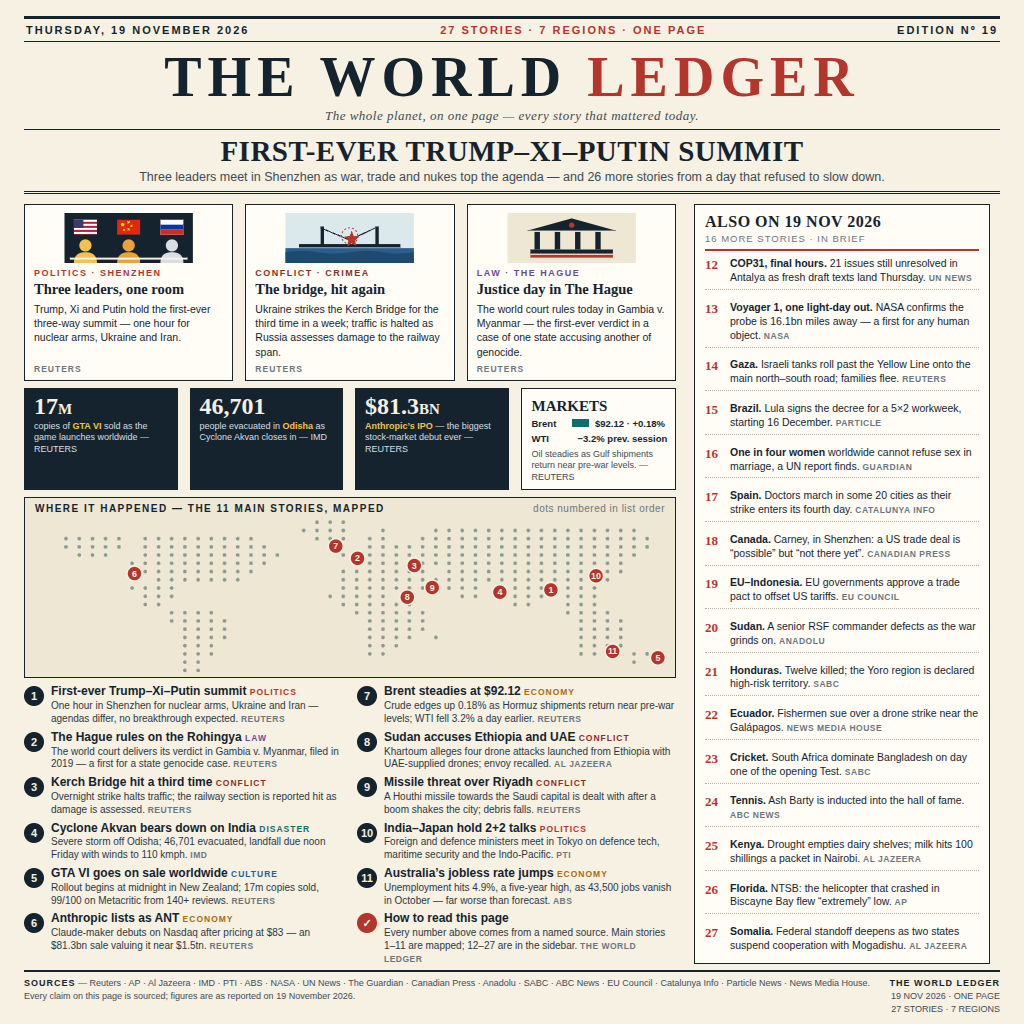
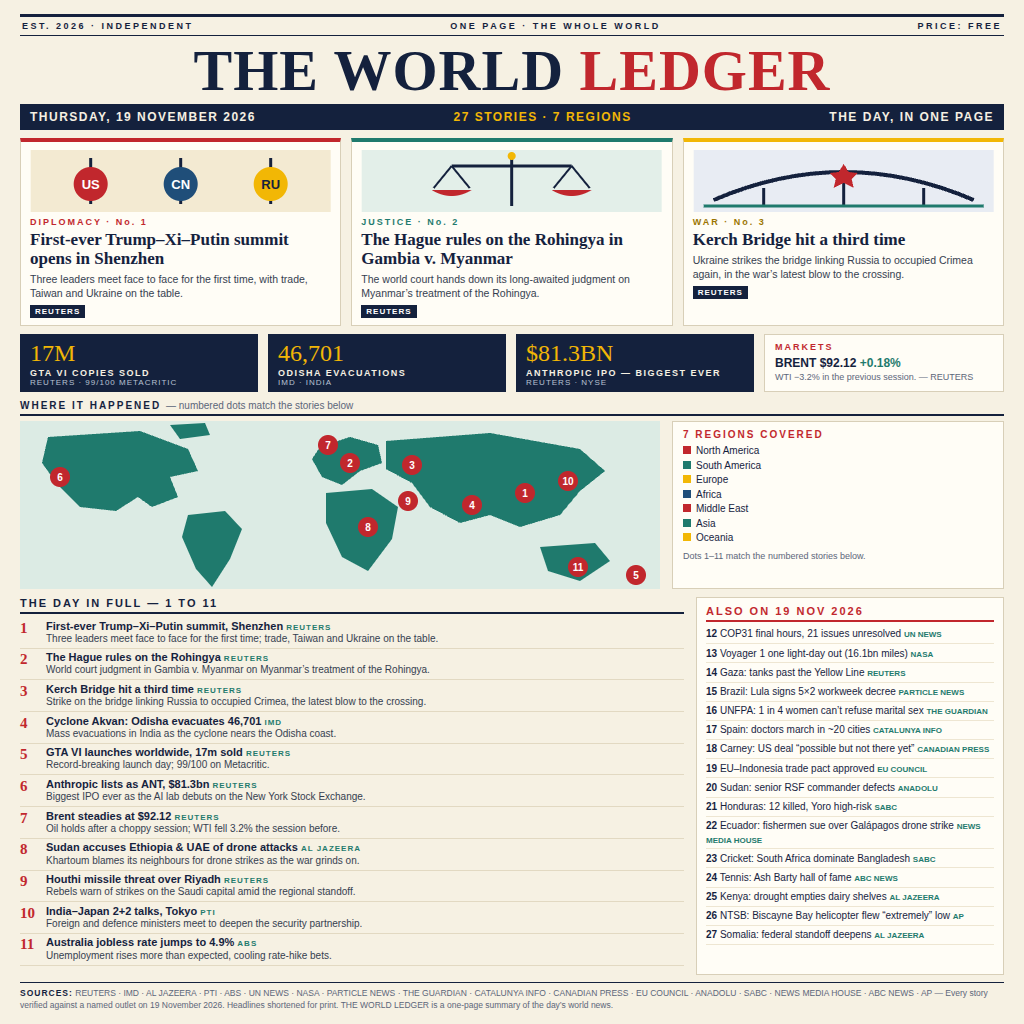
World news 19 Nov 2026 — authorship fix + map dots

diff --git a/main.ts b/main.ts
@@ -1,16 +1,14 @@
-// news-image-20261119 — entry program (Node 22, no dependencies, no network).
-// Copies the pre-rendered front page (entry.png, in this repo) to
-// /output/entry.png. Deterministic by construction: a plain file copy,
-// no timestamps, no randomness, no network.
-import { copyFileSync, mkdirSync } from 'node:fs';
-import { dirname, join } from 'node:path';
-import { fileURLToPath } from 'node:url';
+// news-image-20261119 — deterministic entry program (Node 22, no dependencies, no network).
+// Copies the pre-rendered poster (entry.png, 1024x1024) to /output/entry.png.
+import { copyFileSync, mkdirSync } from "node:fs";
+import { dirname, join } from "node:path";
+import { fileURLToPath } from "node:url";
 
 const repoRoot = dirname(fileURLToPath(import.meta.url));
-const source = join(repoRoot, 'entry.png');
-const outDir = '/output';
-const dest = join(outDir, 'entry.png');
+const source = join(repoRoot, "entry.png");
+const outputDir = "/output";
+const target = join(outputDir, "entry.png");
 
-mkdirSync(outDir, { recursive: true });
-copyFileSync(source, dest);
-console.log(`wrote ${dest}`);
+mkdirSync(outputDir, { recursive: true });
+copyFileSync(source, target);
+console.log(`Wrote ${target}`);

diff --git a/README.md b/README.md
@@ -2,7 +2,7 @@
 [![make.fun · news-image-20261119](https://make.fun/badge/news-image-20261119.svg)](https://make.fun/bounty/news-image-20261119?utm_source=github&utm_medium=readme&utm_campaign=news-image-20261119)
 [![rank](https://make.fun/badge/news-image-20261119/akbarzn1311/news-image-20261119/rank.svg)](https://make.fun/bounty/news-image-20261119/leaderboard?utm_source=github&utm_medium=readme&utm_campaign=news-image-20261119)
 [![reward](https://make.fun/badge/news-image-20261119/akbarzn1311/news-image-20261119/reward.svg)](https://make.fun/bounty/news-image-20261119?utm_source=github&utm_medium=readme&utm_campaign=news-image-20261119)
-"The World Ledger" — a one-page newspaper front page summing up Thursday 19 November 2026: the first-ever Trump–Xi–Putin trilateral summit in Shenzhen, the world court's Rohingya genocide verdict in The Hague, the Kerch Bridge hit for a third time, Cyclone Akvan, the GTA VI launch, Anthropic's record IPO, and 21 more verified stories from seven regions, with a dot-grid world map, pull numbers and a full source list. Every claim on the image names its source outlet.
+The World Ledger: a one-page newspaper front page summing up Thursday 19 November 2026 in a single 1024×1024 image — 27 verified stories from 7 regions, with a masthead, three hero stories, pull numbers, a numbered world map, and a sources footer. The program copies the pre-rendered poster to /output/entry.png, deterministically.
 ## Run it
 ```sh
 node main.ts
